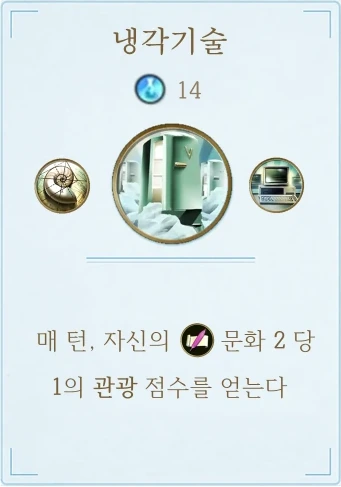
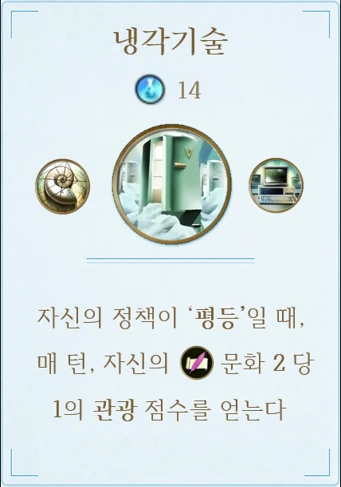
냉각기술: 정책이 평등일 때만 문화 2당 관광 1 (카드 반영), 카드 그림 교체
Claude-Session: https://claude.ai/code/session_01RAyYJg3yqsP1EQBtC7udPM

diff --git a/src/engine/yields.ts b/src/engine/yields.ts
@@ -1,5 +1,5 @@
 import type { City, PartialYield, Player, Terrain, TileCard, TurnYields, Yield } from './types'
-import { RESOURCES, TERRAINS, WONDERS, civById, wonderCardById } from './data'
+import { RESOURCES, TECHS, TERRAINS, WONDERS, civById, wonderCardById } from './data'
 import type { CivDef } from './data'
 
 export const ZERO: Yield = { food: 0, hammer: 0, science: 0, gold: 0 }
@@ -127,12 +127,15 @@ export function happiness(player: Player): number {
   return civ.happiness + luxuries.size + bonus
 }
 
-/** 턴당 관광: 평등(일꾼 2개당 1), 세계화·냉각기술(문화 2당 1), 루브르 +2, 에펠탑 +4 (프랑스는 불가사의 관광 2배). */
+/** 턴당 관광: 평등(일꾼 2개당 1), 세계화(문화 2당 1), 냉각기술(평등일 때만 문화 2당 1), 루브르 +2, 에펠탑 +4 (프랑스는 불가사의 관광 2배). */
 export function tourism(player: Player): number {
   let t = 0
   if (player.policy === 'equality') t += Math.floor(totalWorkers(player) / 2)
-  for (const tech of ['globalization', 'refrigeration']) {
-    if (player.techs.includes(tech)) t += Math.floor(culture(player) / 2)
+  for (const tech of TECHS) {
+    if (!player.techs.includes(tech.id)) continue
+    for (const e of tech.effects) {
+      if (e.kind === 'tourismPerCulture' && (!e.onlyPolicy || player.policy === e.onlyPolicy)) t += Math.floor(culture(player) / 2)
+    }
   }
   const mult = player.civId === 'france' ? 2 : 1
   for (const id of player.wonders) {

diff --git a/src/engine/__tests__/stage2.test.ts b/src/engine/__tests__/stage2.test.ts
@@ -1,5 +1,5 @@
 import { describe, expect, it } from 'vitest'
-import { apply, createGame, culture, happiness, tourism, computeYields, RuleError, WONDER_CARDS, TECHS } from '..'
+import { apply, createGame, culture, happiness, tourism, computeYields, totalWorkers, RuleError, WONDER_CARDS, TECHS } from '..'
 import type { GameState, TileCard } from '..'
 import { found, me, play, startGame, tile } from './helpers'
 
@@ -111,9 +111,12 @@ describe('정책', () => {
     expect(tourism(me(s))).toBe(2)
   })
 
-  it('세계화·냉각기술: 문화 2당 관광 1', () => {
-    const s = mod(solo(), (c) => c.players[0].techs.push('globalization', 'refrigeration'))
-    expect(tourism(me(s))).toBe(2 * Math.floor(culture(me(s)) / 2))
+  it('세계화: 문화 2당 관광 1, 냉각기술: 평등일 때만 문화 2당 관광 1', () => {
+    let s = mod(solo(), (c) => c.players[0].techs.push('globalization', 'refrigeration'))
+    const half = Math.floor(culture(me(s)) / 2)
+    expect(tourism(me(s))).toBe(half)
+    s = mod(s, (c) => (c.players[0].policy = 'equality'))
+    expect(tourism(me(s))).toBe(2 * half + Math.floor(totalWorkers(me(s)) / 2))
   })
 })
 

diff --git a/src/ui/format.ts b/src/ui/format.ts
@@ -89,7 +89,7 @@ function techEffectLine(e: TechDef['effects'][number]): string | null {
     case 'freeCard': return `이 기술을 얻으면 즉시 ${cardById(e.defId).name}을(를) 1장 획득한다`
     case 'secondCity': return '문화를 4 얻으며 해당 문화로 두번째 도시를 편다'
     case 'archaeology': return '이 기술을 얻으면 얻은 시점에 자신이 보유한 사적지 타일 1장당 문화를 1씩 얻는다'
-    case 'tourismPerCulture': return '매 턴, 자신의 문화 2당 1의 관광 점수를 얻는다'
+    case 'tourismPerCulture': return `${e.onlyPolicy ? `자신의 정책이 '${POLICIES[e.onlyPolicy].name}'일 때, ` : ''}매 턴, 자신의 문화 2당 1의 관광 점수를 얻는다`
     case 'scienceVictory': return '이 기술을 가장 먼저 획득하였다면 이 게임에서 승리한다'
     case 'compass': return '1개의 타일까지, 정찰한 타일카드에 일꾼 토큰을 계속 배치하며 기억할 수 있다'
     default: return null // foodToScience, hammerToScience, ignoreRoundPicks 는 TECH_EXTRA가 설명

diff --git a/src/engine/data.ts b/src/engine/data.ts
@@ -80,7 +80,7 @@ export type TechEffect =
   | { kind: 'compass' }
   | { kind: 'secondCity' }
   | { kind: 'archaeology' }
-  | { kind: 'tourismPerCulture' }
+  | { kind: 'tourismPerCulture'; onlyPolicy?: PolicyId }
   | { kind: 'ignoreRoundPicks' }
   | { kind: 'scienceVictory' }
   | { kind: 'hammerToScience'; amount: number }

diff --git a/docs/rules.md b/docs/rules.md
@@ -659,7 +659,7 @@
 
 -   세계화: 매 차례 문화 2당 관광 1
 
--   냉각기술: 매 차례 문화 2당 관광 1
+-   냉각기술: 자신의 정책이 평등일 때, 매 차례 문화 2당 관광 1
 
 -   불가사의: 루브르 관광 +2, 에펠탑 관광 +3
 
